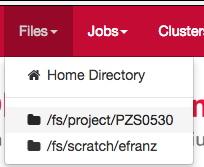
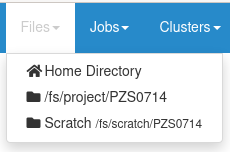
updates for 1.7 release notes
* Most updates confined to the v1.7-release-notes.rst page
* Some updates to configuration.rst had to be made to either reflect
  the current status of the feature, or simply to add a refrence tag
  so that the release notes can link to the documentation on the feature

diff --git a/source/customization.rst b/source/customization.rst
@@ -74,6 +74,8 @@ We recommend setting this in ``/etc/ood/config/apps/dashboard/env``.
 Branding
 -------------------
 
+.. _branding:
+
 You can customize the logo, favicon, title, and navbar colors of OnDemand.
 
 .. figure:: /images/dashboard_branding_logo_and_colors.png
@@ -158,13 +160,15 @@ These URLs can be specified, which will appear in the Help menu and on other loc
 Add Shortcuts to Files Menu
 ---------------------------
 
+.. _add-shortcuts-to-files-menu:
+
 The Files menu by default has a single link to open the Files app in the user's
 Home Directory. More links can be added to this menu, for Scratch space and
 Project space directories.
 
 Adding more links currently requires adding a custom initializer to the
 Dashboard app. Ruby code is placed in the initializer to add one or more Ruby
-``Pathname`` objects to the ``OodFilesApp.candidate_favorite_paths`` array, a
+``FavoritePath`` objects to the ``OodFilesApp.candidate_favorite_paths`` array, a
 global attribute that is used in the Dashboard app.
 
 Start by creating the file
@@ -174,17 +178,19 @@ Start by creating the file
 
    # /etc/ood/config/apps/dashboard/initializers/ood.rb
 
-   OodFilesApp.candidate_favorite_paths.tap do |paths|
-     # add project space directories
-     projects = User.new.groups.map(&:name).grep(/^P./)
-     paths.concat projects.map { |p| Pathname.new("/fs/project/#{p}")  }
+  OodFilesApp.candidate_favorite_paths.tap do |paths|
+    # add project space directories
+    projects = User.new.groups.map(&:name).grep(/^P./)
+    paths.concat projects.map { |p| FavoritePath.new(Pathname.new("/fs/project/#{p}"))  }
 
-     # add scratch space directories
-     paths << Pathname.new("/fs/scratch/#{User.new.name}")
-     paths.concat projects.map { |p| Pathname.new("/fs/scratch/#{p}")  }
-   end
+    # add scratch space directories
+    paths << FavoritePath.new(Pathname.new("/fs/scratch/#{User.new.name}"))
 
-- The variable ``paths`` is an array of ``Pathname`` objects that define a list
+    # Project scratch has an optional title field.
+    paths.concat projects.map { |p| FavoritePath.new(Pathname.new("/fs/scratch/#{p}"), title: "Scratch")  }
+  end
+
+- The variable ``paths`` is an array of ``FavoritePath`` objects that define a list
   of what will appear in the Dashboard menu for Files
 - At OSC, the pattern for project paths follows
   :file:`/fs/project/{project_name}`. So above we:
@@ -192,12 +198,14 @@ Start by creating the file
   #. get an array of all user's groups by name
   #. filter that array for groups that start with ``P`` (i.e., ``PZS0002``,
      ``PAW0003``, ...)
-  #. using ``map`` we turn this array into an array of ``Pathname`` objects to
+  #. using ``map`` we turn this array into an array of ``FavoritePath`` objects to
      all the possible project directories the user could have.
   #. extend the paths array with this list of paths
 
 - For possible scratch space directories, we look for either
   :file:`/fs/scratch/{project_name}` or :file:`/fs/scratch/{user_name}`
+- Additionally project scratch directories have a 'title' attribute and will
+  with in the dropdown with both the title and the path.
 
 On each request, the Dashboard will check for the existence of the directories
 in ``OodFilesApp.candidate_favorite_paths`` array and whichever directories
@@ -579,6 +587,8 @@ the specified user only.
 Balance Warnings on Dashboard
 --------------------------------
 
+.. _balance-warnings-on-dashboard:
+
 You can display warnings to users on the Dashboard if their
 resource balance is nearing its limit. This requires an auto-updated (it is
 recommended to update this file daily with a cronjob) JSON file
@@ -660,6 +670,8 @@ If the balance is defined as a ``project`` balance, then it applies to a project
 Maintenance Mode
 -----------------
 
+.. _maintenance-mode:
+
 As an administrator you may want to have some downtime of the Open OnDemand service for various reasons,
 while still telling your customers that the downtime is expected.
 
@@ -687,7 +699,7 @@ These are the settings you'll need for this functionality.
     - '10.0.0.1'
 
 To start maintenance mode (and thus start serving this page) simply ``touch /etc/ood/maintenance.enable``
-to create the nessecary file. When your downtime is complete just remove the file and all the
-traffic will be served normally again.  The existance of this file is what starts or stops maintenance
+to create the necessary file. When your downtime is complete just remove the file and all the
+traffic will be served normally again.  The existence of this file is what starts or stops maintenance
 mode, not it's content, so you will not need to restart apache or modify it's config files for this to
 take affect.

diff --git a/source/release-notes/v1.7-release-notes.rst b/source/release-notes/v1.7-release-notes.rst
@@ -9,6 +9,11 @@ Highlights in 1.7:
 - `Update Passenger and NGINX dependencies`_
 - `Update Ruby and NodeJS dependencies`_
 - `Drop EL6 and add EL8 support`_
+- `Added the Linux Host Adapter`_
+- `Show account balance warnings`_
+- `Job Composer and Active Jobs match Dashboard Branding`_
+- `Titles for Files menu entries`_
+- `Documentation for Keycloak as identity broker with CILogon`_
 
 Upgrading from v1.6
 -------------------
@@ -79,9 +84,59 @@ Passenger has been upgraded from ``5.3.7`` to ``6.0.4``. NGINX has been upgraded
 Update Ruby and NodeJS dependencies
 ...................................
 
-The Ruby verion used by OnDemand has been upgraded from ``2.4`` to ``2.5``. The NodeJS version used by OnDemand has been upgraded from ``6`` to ``10``.
+The Ruby version used by OnDemand has been upgraded from ``2.4`` to ``2.5``. The NodeJS version used by OnDemand has been upgraded from ``6`` to ``10``.
 
 Drop EL6 and add EL8 support
 ............................
 
 OnDemand has dropped support for CentOS/RedHat 6 and added support for CentOS/RedHat 8.
+
+
+Added the Linux Host Adapter
+............................
+
+Support for running jobs directly on Linux hosts has been added. This means interactive 
+jobs can now run on a login node instead of through a batch scheduler.
+
+See the documentation for the :ref:`resource-manager-linuxhost`. for more details.
+
+Show account balance warnings
+.............................
+
+The dashboard can now show account balance warnings if the users' account balance
+is some threshold.
+
+See :ref:`these docs <balance-warnings-on-dashboard>` for more details on how to 
+enable this feature.
+
+Job Composer and Active Jobs match Dashboard Branding
+.....................................................
+
+The Job Composer and Active Jobs apps' top navigation bar now share the same branding
+scheme configured for the dashboard. 
+
+There's no additional configuration required for this other than what's documented 
+:ref:`here <branding>`.
+
+Maintenance mode
+................
+
+OOD can be put into 'maintenance mode' where it serves a static page to either all
+users or a subset (staff on a VPN for example).  This static page informs users
+that maintenance is underway while administrators perform disruptive tasks.
+
+See :ref:`these docs <maintenance-mode>` on how to configure and enable this feature.
+
+Titles for Files menu entries
+.............................
+
+The shortcuts in the files dropdown menu can now show an optional title along with the 
+directory path. The :ref:`original documentation <add-shortcuts-to-files-menu>` on this 
+feature has been updated to reflect the new options.
+
+
+Documentation for Keycloak as identity broker with CILogon
+..........................................................
+
+Documentation for Keycloak as identity broker with CILogon has been added in the documentation
+entitled ':ref:`authentication-tutorial-oidc-keycloak-rhel7-configure-cilogon`'.
